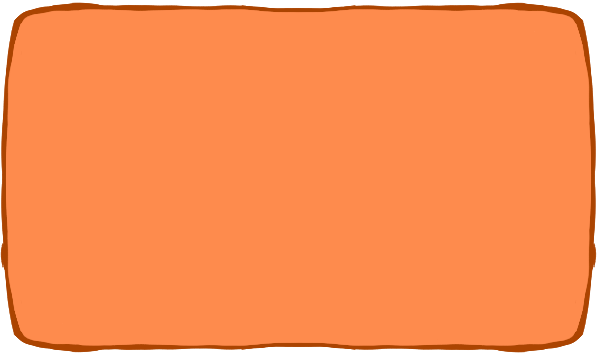
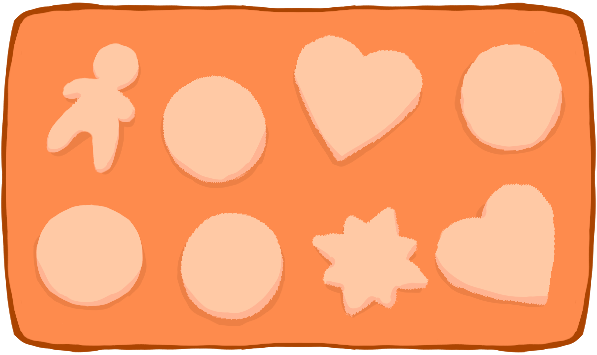
galletas se rellenan mas o menos

diff --git a/src/Papas/GlaseadoGalletas.js b/src/Papas/GlaseadoGalletas.js
@@ -1,70 +1,71 @@
 import AccionBase from "../accionBase.js";
-import Corte from "./Corte.js"
+import Galletas from "./Galletas.js"
 
 export default class CorteGalletas extends AccionBase {
-    constructor(scene, x, y, bandejaSpr, corteSpr) {
+    constructor(scene, x, y, bandejaSpr, glasSpr) {
         super(scene, x, y, bandejaSpr);
 
-        this.setScale(.85, .85);
+        this.setScale(.75, .75);
         this.setInteractive();
 
         this.scene.add.existing(this);
         this.setDepth(1);
-        /*this.cortador = new Corte(scene, x-100, y-50, corteSpr);
-        this.cortador.hide();
 
-        this.cortador.on('pointerdown', (pointer) => {
-            this.cortador.move();
-        })*/
+        this.glaseado = new Galletas(scene, x, y, glasSpr);
+
+        this.pulsado = false;
+        this.move = false;
+
+        this.porcentaje = 0.001;
+
+        this.glaseado.on('pointerdown', (pointer) => {
+            this.pulsado = true;
+            console.log("Pulsado" + this.pulsado);
+        })
+
+        this.glaseado.on('pointermove', (pointer) => {
+            if (this.pulsado) {
+
+                this.move = true;
+                console.log("mueve: " + this.move);
+            } 
+            else {
+                this.move = false;
+            }
+        })
+
+        this.glaseado.on('pointerup', (pointer) => {
+            this.move = false;
+            this.pulsado = false;
+        })
 
         scene.input.enableDebug(this);
     };
 
-    create() {
-        var graphics = this.add.graphics();
-    
-        // Configurar el color y el grosor del pincel
-        var color = 0x000000;
-        var grosor = 100;
-    
-        // Variable para rastrear si el botón del ratón está presionado
-        var pintando = false;
-    
-        // Configurar eventos de entrada del ratón
-        this.input.on('pointerdown', function (pointer) {
-            pintando = true;
-            pintar(graphics, pointer.x, pointer.y, color, grosor);
-        });
-    
-        this.input.on('pointerup', function () {
-            pintando = false;
-        });
-    
-        this.input.on('pointermove', function (pointer) {
-            if (pintando) {
-                pintar(graphics, pointer.x, pointer.y, color, grosor);
-            }
-        });
-    }
-    
-    pintar(graphics, x, y, color, grosor) {
-        console.log("Pintado");
-        graphics.fillStyle(color);
-        graphics.fillRect(x - grosor / 2, y - grosor / 2, grosor, grosor);
-    }
-
     //startAccion
     StartAccion() {
-        //this.input.enabled = false;
+        this.input.enabled = false;
         //this.cortador.appear();
-       //console.log("Start accion");
+        //console.log("Start accion");
 
+    }
+
+    updateGlassed() {
+        if (this.move && this.pulsado) {
+            this.porcentaje += .01;
+            this.glaseado.setAlpha(this.porcentaje);
+            console.log(this.porcentaje);
+            if (this.porcentaje >= 1) {
+                this.scene.endAction(-1);
+            }
+        }
     }
 
     Reset() {
         //console.log("reset accion");
-        //super.Reset();
-        //this.input.enabled = true;
-        //this.cortador.hide();
+        super.Reset();
+        this.input.enabled = true;
+        this.porcentaje = .001;
+        this.contador = false;
     }
 }

diff --git a/src/Papas/papas.js b/src/Papas/papas.js
@@ -19,6 +19,8 @@ export default class Papas extends Phaser.Scene {
     this.load.image('BandejaCorte', '/assets/juego/PapasGalleteria/Bandeja_1.png'); // Cargamos la imagen de volver atras (provisional).
     this.load.image('BordGallet', '/assets/juego/PapasGalleteria/Borde_Galleta.png'); // Cargamos la imagen de volver atras (provisional).
     this.load.image('MarcaGallet', '/assets/juego/PapasGalleteria/Marca_Galleta.png'); // Cargamos la imagen de volver atras (provisional).
+    this.load.image('BandejaGlased', '/assets/juego/PapasGalleteria/Bandeja_Base.png'); // Cargamos la imagen de volver atras (provisional).
+    this.load.image('GlaseadoGallet', '/assets/juego/PapasGalleteria/Glaseado_Galleta.png'); // Cargamos la imagen de volver atras (provisional).
     this.load.image('Fondo', '/assets/juego/PapasGalleteria/Fondo.png'); // Cargamos la imagen de volver atras (provisional).
   }
 
@@ -35,8 +37,8 @@ export default class Papas extends Phaser.Scene {
     this.time = 10;
 
     // Elementos del juego
-    this.bandeja1 = new CorteGalletas(this, 330, 540, 'BandejaCorte', 'MarcaGallet');
-    this.bandeja2 = new GlaseadoGalletas(this, 750, 540, 'BandejaCorte', 'MarcaGallet');
+    this.bandeja1 = new CorteGalletas(this, 300, 540, 'BandejaCorte', 'MarcaGallet');
+    this.bandeja2 = new GlaseadoGalletas(this, 800, 540, 'BandejaGlased', 'GlaseadoGallet');
 
 
     //Bloquea la otra bandeja
@@ -45,6 +47,7 @@ export default class Papas extends Phaser.Scene {
       this.bandeja2.BlockThisAction();
       this.bandeja1.StartAccion();
     })
+
     this.bandeja2.on('pointerdown', (pointer) => {
       console.log("Start b2");
       this.bandeja1.BlockThisAction();
@@ -53,6 +56,7 @@ export default class Papas extends Phaser.Scene {
   }
 
   update(time, delta) {
+    this.bandeja2.updateGlassed();
     //cuenta atras para acabar el juego
     if (this.time <= 0) {
       //this.finalDelJuego();

diff --git a/src/Papas/Galletas.js b/src/Papas/Galletas.js
@@ -1,0 +1,20 @@
+
+export default class Galletas extends Phaser.GameObjects.Sprite {
+    constructor(scene, x, y, glaseadoSpr) {
+        super(scene, x, y, glaseadoSpr);
+
+        this.startPosX = x;
+        this.startPosY = y;
+
+        this.scene.add.existing(this);
+        this.setInteractive();
+
+        this.setDepth(2);
+        this.setScale(.75, .75);
+
+        scene.input.enableDebug(this);
+    }
+
+    
+    
+}

diff --git a/src/Papas/Corte.js b/src/Papas/Corte.js
@@ -1,8 +1,8 @@
 
 import CorteGalletas from "./CorteGalletas.js";
 
-export default class Hat extends Phaser.GameObjects.Sprite {
-    constructor(scene, x, y, corteSpr, bandejaRef) {
+export default class Corte extends Phaser.GameObjects.Sprite {
+    constructor(scene, x, y, corteSpr) {
         super(scene, x, y, corteSpr);
 
         this.scene.add.existing(this);

diff --git a/src/accionBase.js b/src/accionBase.js
@@ -5,6 +5,7 @@ export default class AccionBase extends Phaser.GameObjects.Sprite {
   constructor(scene, x, y, spr) {
     super(scene, x, y, spr);
   };
+  
   //Comportamientos
   preUpdate(t, dt) { }
 
